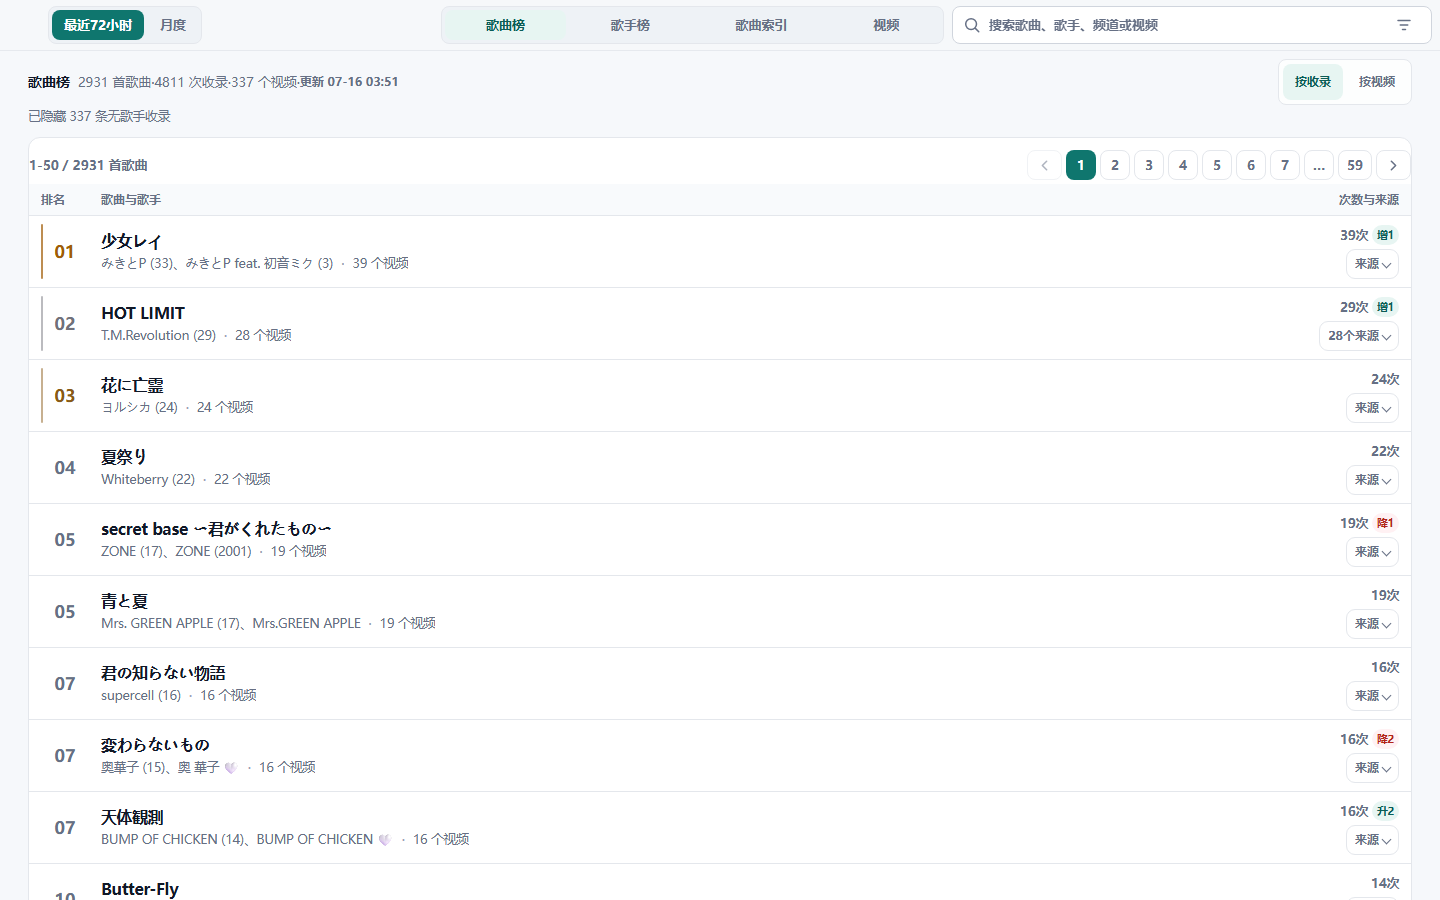
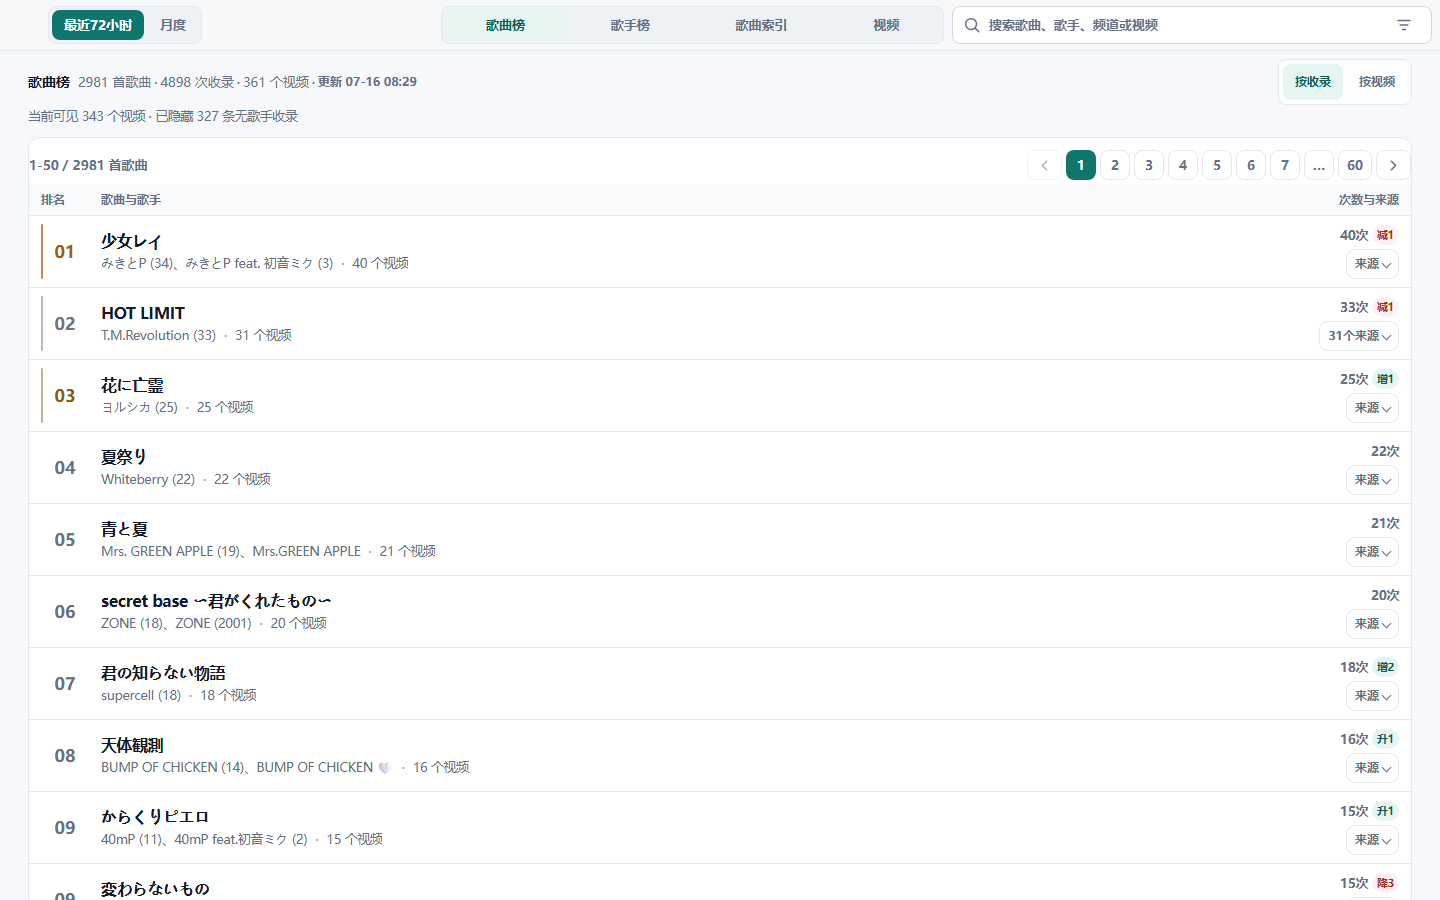
fix: 修正月度汇总视频数口径

diff --git a/assets/app.js b/assets/app.js
@@ -2791,8 +2791,8 @@ function renderSongRank(group, rangeCache, selection) {
   renderSummary(group, [
     recordVisibilityMetric(records.length, baseModel.records.length, allRecords.length, nicheRecords.length, "首歌曲", "首小众歌曲"),
     occurrenceVisibilityMetric(occurrences.length, sourceVisibleOccurrences.length, hideUnknownForView ? rangeCache.visibleNicheOccurrences.length : rangeCache.nicheOccurrences.length),
-    metric(selection.videoCount, "个视频"),
-  ], summaryNote(selection, filterStatusNote("songRank", filteredModel)));
+    summaryVideoMetric(rangeCache, selection),
+  ], summaryNote(selection, filterStatusNote("songRank", filteredModel), rangeCache));
 
   if (!records.length) {
     renderEmpty(emptyMessage("这个范围还没有歌曲", "没有找到符合条件的歌曲", "没有找到小众歌曲"), {
@@ -2893,8 +2893,8 @@ function renderSongIndexView(group, rangeCache, selection) {
   renderSummary(group, [
     recordVisibilityMetric(records.length, baseRecords.length, allRecords.length, nicheRecords.length, "首歌曲", "首小众歌曲"),
     occurrenceVisibilityMetric(occurrences.length, sourceVisibleOccurrences.length, hideUnknownForView ? rangeCache.visibleNicheOccurrences.length : rangeCache.nicheOccurrences.length),
-    metric(selection.videoCount, "个视频"),
-  ], summaryNote(selection));
+    summaryVideoMetric(rangeCache, selection),
+  ], summaryNote(selection, "", rangeCache));
 
   if (!records.length) {
     renderEmpty(emptyMessage("这个范围还没有歌曲索引", "没有找到符合条件的歌曲", "没有找到小众歌曲"), {
@@ -3047,8 +3047,31 @@ function hiddenUnknownNote(selection) {
   return state.hideUnknownArtist && count > 0 ? `已隐藏 ${count} 条无歌手收录` : "";
 }
 
-function summaryNote(selection, extra = "") {
-  return [extra, hiddenUnknownNote(selection), monthlyCoverageNote()].filter(Boolean).join(" · ");
+function summaryNote(selection, extra = "", rangeCache = null) {
+  return [extra, summaryVideoVisibilityNote(rangeCache, selection), hiddenUnknownNote(selection), monthlyCoverageNote()].filter(Boolean).join(" · ");
+}
+
+function summaryVideoMetric(rangeCache, selection) {
+  return metric(summaryVideoCountModel(rangeCache, selection).count, "个视频");
+}
+
+function summaryVideoVisibilityNote(rangeCache, selection) {
+  return summaryVideoCountModel(rangeCache, selection).note;
+}
+
+function summaryVideoCountModel(rangeCache, selection) {
+  if (!rangeCache) return { count: Number(selection?.videoCount) || 0, note: "" };
+  return window.FrontendUtils.summaryVideoCountModel({
+    visibleCount: selection?.videoCount,
+    sourceCount: sourceVideoCountForSummary(rangeCache),
+    hideUnknownArtist: shouldHideUnknownForCurrentView(),
+    filter: state.filter,
+  });
+}
+
+function sourceVideoCountForSummary(rangeCache) {
+  if (state.nicheOnly) return rangeCache.nicheVideoCount;
+  return Array.isArray(rangeCache.items) ? rangeCache.items.length : rangeCache.allVideoCount;
 }
 
 function monthlyCoverageNote() {

diff --git a/test/frontend-utils.test.js b/test/frontend-utils.test.js
@@ -36,6 +36,7 @@ const {
   sanitizeQueryDraft,
   shouldPrefetchRuntimeRange,
   shouldSkipSourceFilter,
+  summaryVideoCountModel,
   trendDisplayModel,
   validateRuntimeRangePayload,
   visiblePageTokens,
@@ -641,6 +642,46 @@ test("query draft sanitizes snapshot trend and counts only active conditions", (
   assert.equal(activeQueryConditionCount({ ...snapshotDraft, pageSize: 50 }, { ...options, view: "songRank" }), 6);
   assert.equal(activeQueryConditionCount({ ...snapshotDraft, rankMetric: "videos", minCount: 10 }, { ...options, view: "videos" }), 4);
   assert.equal(activeQueryConditionCount({ ...snapshotDraft, trend: "up", minCount: 10 }, { ...options, view: "songAz" }), 5);
+});
+
+test("summary video count keeps source totals separate from hidden-unknown visibility", () => {
+  assert.deepEqual(summaryVideoCountModel({
+    visibleCount: 1099,
+    sourceCount: 1224,
+    hideUnknownArtist: true,
+    filter: "",
+  }), {
+    count: 1224,
+    note: "当前可见 1099 个视频",
+    sourceCount: 1224,
+    visibleCount: 1099,
+    usesSourceCount: true,
+  });
+
+  assert.deepEqual(summaryVideoCountModel({
+    visibleCount: 37,
+    sourceCount: 1224,
+    hideUnknownArtist: true,
+    filter: "テオ",
+  }), {
+    count: 37,
+    note: "",
+    sourceCount: 1224,
+    visibleCount: 37,
+    usesSourceCount: false,
+  });
+
+  assert.deepEqual(summaryVideoCountModel({
+    visibleCount: 1224,
+    sourceCount: 1224,
+    hideUnknownArtist: false,
+  }), {
+    count: 1224,
+    note: "",
+    sourceCount: 1224,
+    visibleCount: 1224,
+    usesSourceCount: false,
+  });
 });
 
 test("runtime range path follows URL range and meta paths", () => {

diff --git a/assets/frontend-utils.js b/assets/frontend-utils.js
@@ -331,6 +331,20 @@
     return count;
   }
 
+  function summaryVideoCountModel(options = {}) {
+    const visibleCount = nonNegativeInteger(options.visibleCount ?? options.visibleVideoCount, 0);
+    const sourceCount = nonNegativeInteger(options.sourceCount ?? options.sourceVideoCount, visibleCount);
+    const hasSearchFilter = cleanText(options.filter ?? options.q).length > 0;
+    const usesSourceCount = Boolean(options.hideUnknownArtist) && !hasSearchFilter && sourceCount > visibleCount;
+    return {
+      count: usesSourceCount ? sourceCount : visibleCount,
+      note: usesSourceCount ? `当前可见 ${visibleCount} 个视频` : "",
+      sourceCount,
+      visibleCount,
+      usesSourceCount,
+    };
+  }
+
   function parseBooleanParam(value, fallback) {
     if (value === null || typeof value === "undefined") return fallback;
     return ["1", "true", "yes", "on"].includes(String(value).toLocaleLowerCase());
@@ -365,6 +379,11 @@
   function positiveInteger(value, fallback) {
     const parsed = Number.parseInt(value, 10);
     return Number.isFinite(parsed) && parsed > 0 ? parsed : fallback;
+  }
+
+  function nonNegativeInteger(value, fallback) {
+    const parsed = Number.parseInt(value, 10);
+    return Number.isFinite(parsed) && parsed >= 0 ? parsed : fallback;
   }
 
   function clamp(value, min, max) {
@@ -1071,6 +1090,7 @@
     sanitizeQueryDraft,
     shouldPrefetchRuntimeRange,
     shouldSkipSourceFilter,
+    summaryVideoCountModel,
     validateRuntimeRangePayload,
     trendDisplayModel,
     visiblePageTokens,

diff --git a/test/ui-redesign-static.test.js b/test/ui-redesign-static.test.js
@@ -178,6 +178,18 @@ test("mobile summary and pagination have compact rules", () => {
   assert.match(appSource, /function renderPageJumpToken/u);
 });
 
+test("summary video metric uses source payload count instead of hidden-unknown visible count", () => {
+  const songRankBody = functionBody("function renderSongRank");
+  const songIndexBody = functionBody("function renderSongIndexView");
+  assert.match(songRankBody, /summaryVideoMetric\(rangeCache, selection\)/u);
+  assert.match(songIndexBody, /summaryVideoMetric\(rangeCache, selection\)/u);
+  assert.doesNotMatch(songRankBody, /metric\(selection\.videoCount, "个视频"\)/u);
+  assert.doesNotMatch(songIndexBody, /metric\(selection\.videoCount, "个视频"\)/u);
+  assert.match(appSource, /function summaryVideoCountModel\(rangeCache, selection\)[\s\S]*visibleCount: selection\?\.videoCount,[\s\S]*sourceCount: sourceVideoCountForSummary\(rangeCache\)/u);
+  assert.match(appSource, /function sourceVideoCountForSummary\(rangeCache\)[\s\S]*rangeCache\.items\.length/u);
+  assert.match(appSource, /function summaryNote\(selection, extra = "", rangeCache = null\)[\s\S]*summaryVideoVisibilityNote\(rangeCache, selection\)/u);
+});
+
 function functionBody(signature) {
   const start = appSource.indexOf(signature);
   assert.notEqual(start, -1, `missing ${signature}`);

diff --git a/index.html b/index.html
@@ -20,7 +20,7 @@
     <link rel="icon" href="favicon.ico" sizes="any" />
     <link rel="icon" type="image/png" sizes="512x512" href="assets/favicon.png?v=icon1" />
     <link rel="apple-touch-icon" sizes="180x180" href="assets/apple-touch-icon.png?v=icon1" />
-    <link rel="stylesheet" href="assets/styles.css?v=h662a904e1fa6" />
+    <link rel="stylesheet" href="assets/styles.css?v=he5e928cf0437" />
   </head>
   <body>
     <main class="layout">
@@ -239,9 +239,9 @@
     </button>
     <div class="toast" id="toast" aria-live="polite" hidden></div>
 
-    <script src="assets/blocked-vtuber-meta.js?v=h662a904e1fa6" defer></script>
-    <script src="assets/frontend-utils.js?v=h662a904e1fa6" defer></script>
-    <script src="assets/ranking-utils.js?v=h662a904e1fa6" defer></script>
-    <script src="assets/app.js?v=h662a904e1fa6" defer></script>
+    <script src="assets/blocked-vtuber-meta.js?v=he5e928cf0437" defer></script>
+    <script src="assets/frontend-utils.js?v=he5e928cf0437" defer></script>
+    <script src="assets/ranking-utils.js?v=he5e928cf0437" defer></script>
+    <script src="assets/app.js?v=he5e928cf0437" defer></script>
   </body>
 </html>

diff --git a/assets/styles.css b/assets/styles.css
@@ -605,6 +605,10 @@ svg {
   flex: 0 1 auto;
 }
 
+.summary-separator {
+  padding: 0 3px;
+}
+
 .summary-note {
   grid-area: note;
   min-width: 0;

diff --git a/README.md b/README.md
@@ -99,6 +99,7 @@ npm run screenshots:readme -- https://ytb-song-rank.culua.com/
    - Each range keeps derived occurrences, per-view lazy song records, per-view lazy artist records, video search data, and per-record `videoCount` in memory. Pagination and page-size changes reuse those records and only rebuild the visible page DOM. Prepared historical snapshots keep the existing 5-entry in-memory LRU cache, while immutable hourly snapshot JSON uses browser cache.
    - Ordinary interactions keep the address bar clean. Legacy inbound `shared=1` URLs are still parsed once and then removed from the visible URL, but the page no longer provides user-facing share or current-page link copy actions.
    - Unknown-artist rows are hidden by default in song ranking, song index, and video views. The URL writes `showUnknown=1` only when the user explicitly shows them; artist ranking is intentionally unaffected.
+   - Song ranking and song index summaries keep the source video count aligned with the active runtime payload. If hiding unknown-artist rows removes every visible song from some videos, the summary note reports the current visible video count separately instead of shrinking the range's source video total.
    - Video search keeps song-only matches visible before the fold. Rank views can switch between `按收录` and `按视频`, and latest song/artist ranks display movement from `data/diff`.
 5. Public review UI is not shipped.
    - `scripts/build-review-queue.js` and `scripts/export-dirty-candidates.js` still generate `data/review/*` and `data/quality-report.json` for local or offline audit tooling.
